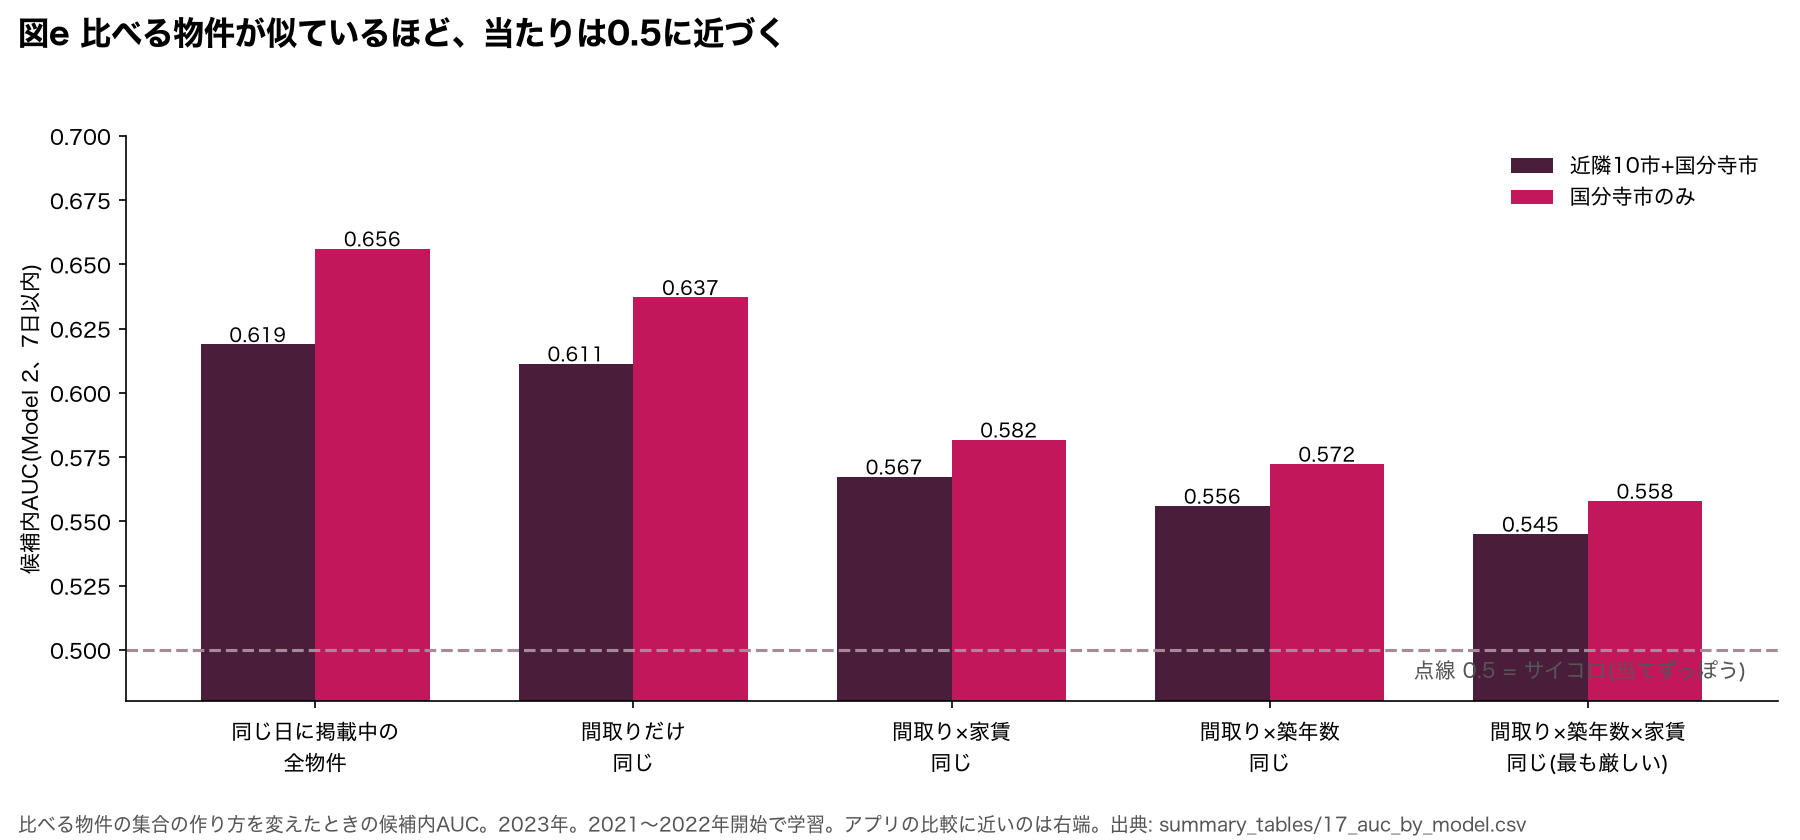
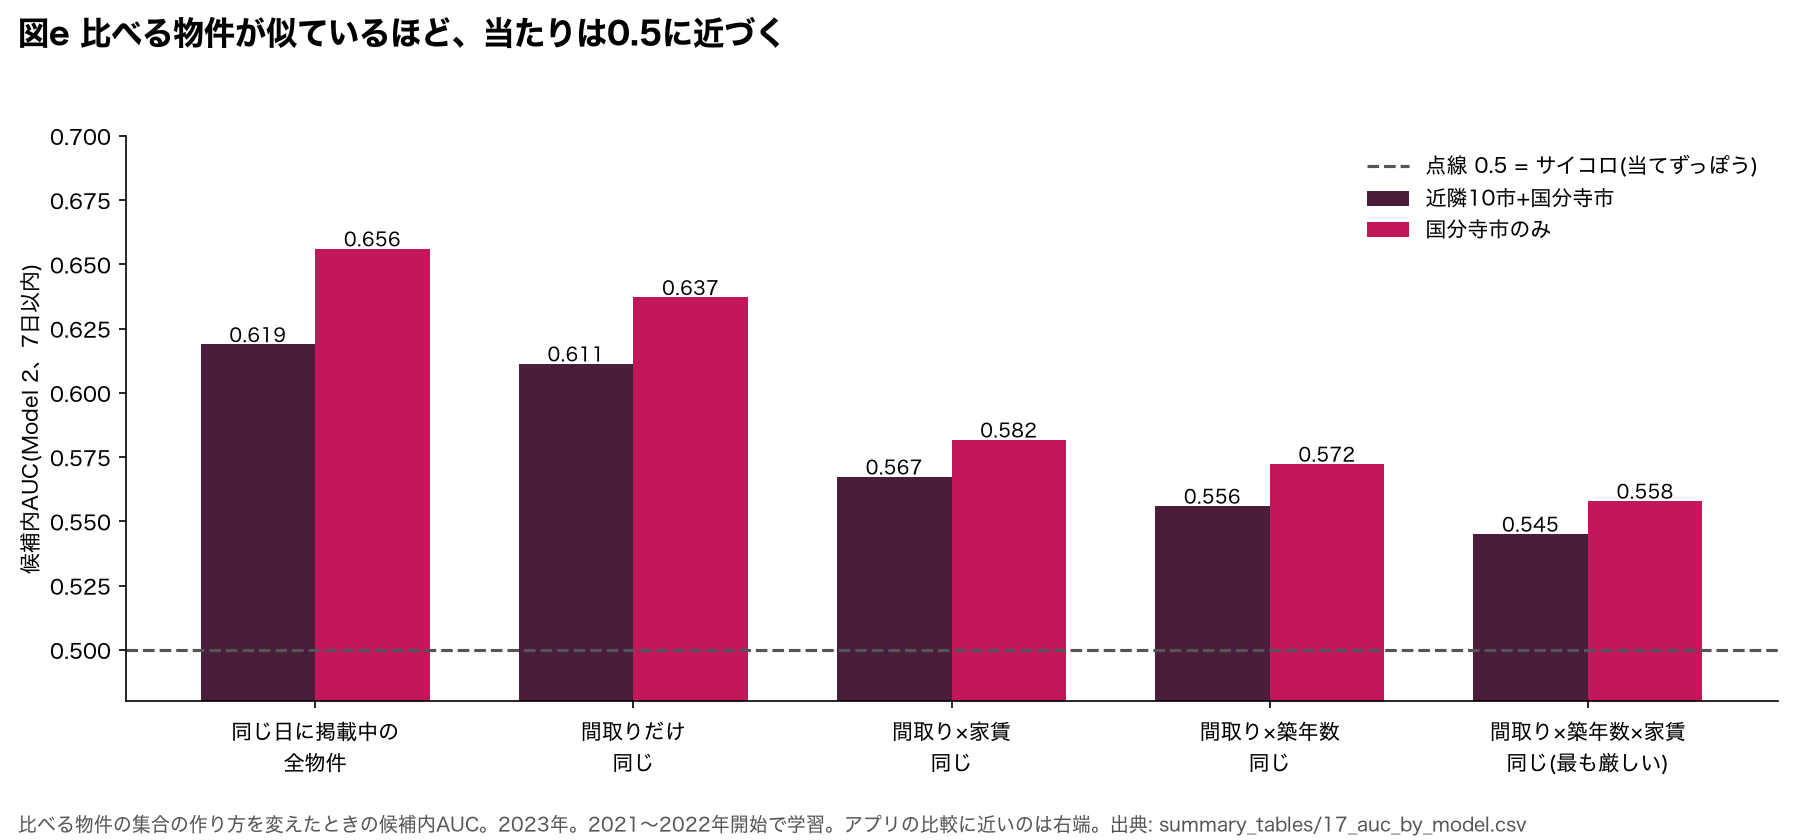
Fix figure 23e: move the 0.5 baseline label into the legend

Changed region(s): [[0.7467, 0.1857, 0.9956, 0.2786], [0.7778, 0.7738, 0.9644, 0.8048]]

diff --git a/Ohori/analysis/23_report_figures.py b/Ohori/analysis/23_report_figures.py
@@ -150,8 +150,7 @@ def fig_e() -> None:
         bars = ax.bar(x + (i - 0.5) * 0.36, v, 0.36, color=color, label=pop if pop != "国分寺市" else "国分寺市のみ")
         for b, val in zip(bars, v):
             ax.text(b.get_x() + b.get_width() / 2, val, f"{val:.3f}", ha="center", va="bottom", fontsize=9)
-    ax.axhline(0.5, color=GRAY, ls="--")
-    ax.text(len(order) - 0.5, 0.489, "点線 0.5 = サイコロ(当てずっぽう)", color="#555555", ha="right", fontsize=10)
+    ax.axhline(0.5, color="#555555", ls="--", label="点線 0.5 = サイコロ(当てずっぽう)")
     ax.set_xticks(x, labels)
     ax.set_ylim(0.48, 0.70)
     ax.set_ylabel("候補内AUC(Model 2、7日以内)")
